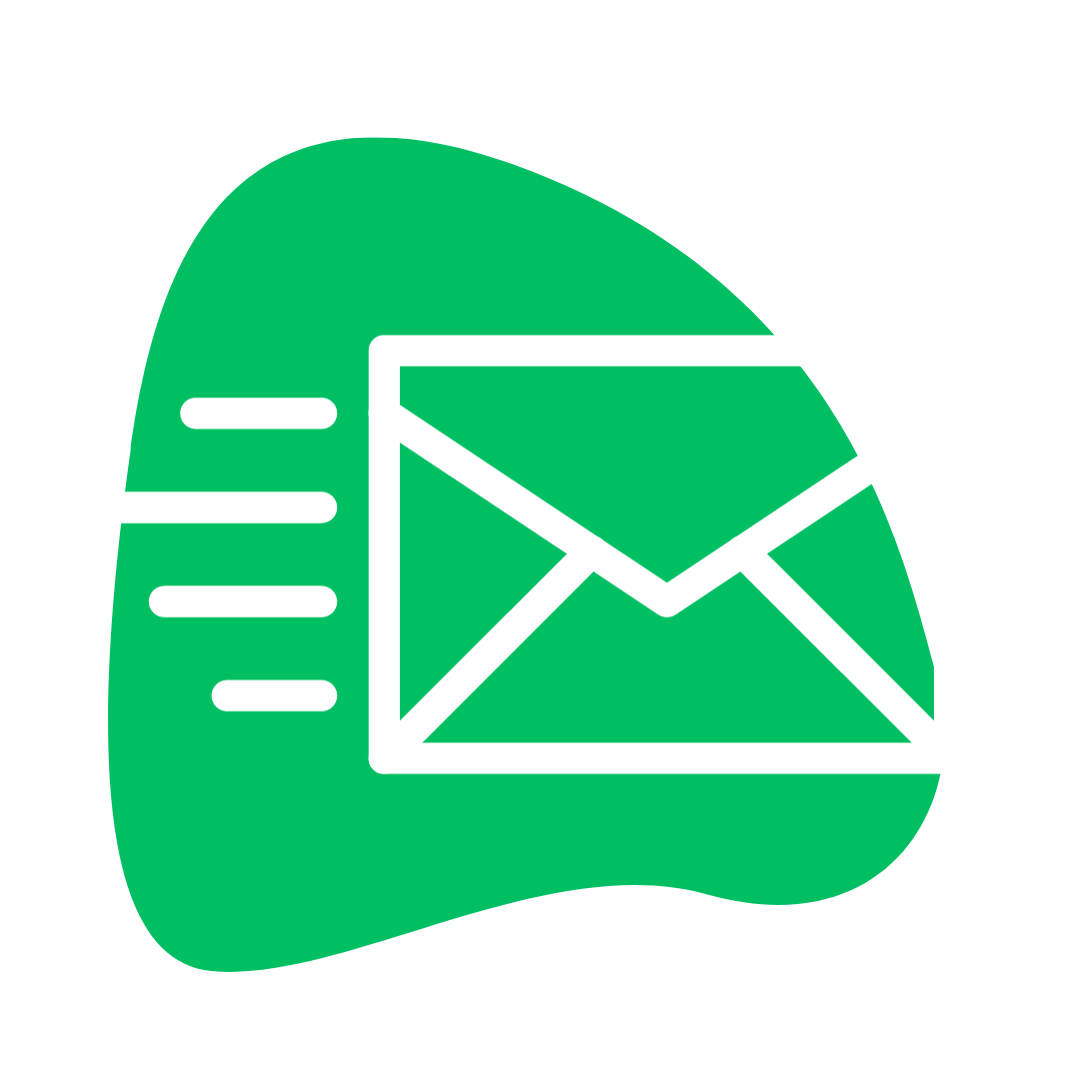
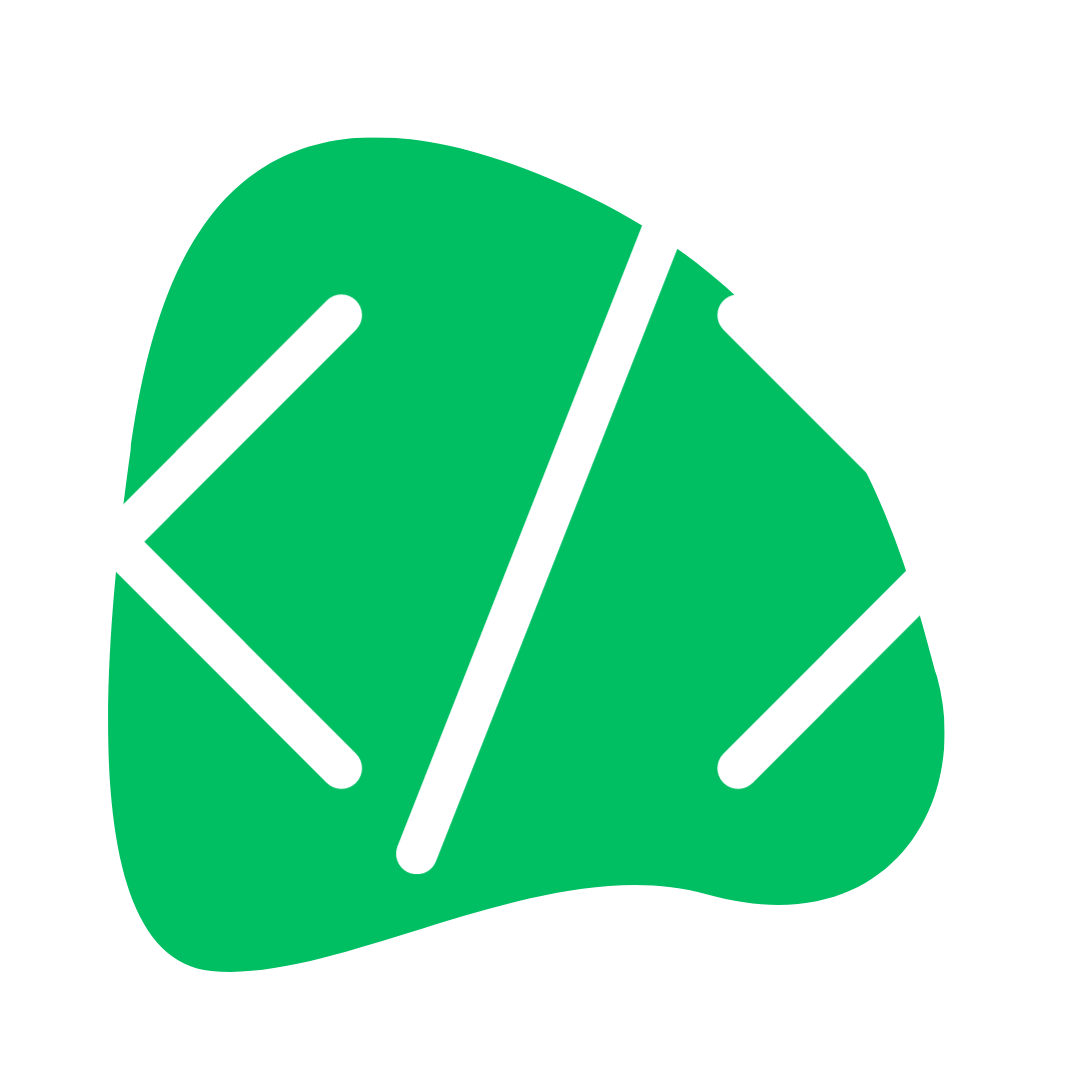
modified

Changed region(s): [[0.0917, 0.2139, 0.8861, 0.825]]

diff --git a/style.css b/style.css
@@ -18,10 +18,18 @@ header {
 ul {
   list-style: none;
   display: flex;
+  height: 100%;
 }
 li {
   margin: 0 15px;
+  display: flex;
+  align-items: center;
 }
+.menus{
+  display: flex;
+  align-items: center;
+}
+
 nav {
   max-width: var(--largura-m);
   margin: auto;
@@ -215,16 +223,16 @@ section {
   color: #fff;
   border: 1px solid #fff;
 }
-.card:hover > .card_header > #redes {
+.card:hover > .card_header > #sites {
   background-image: url("./arquivos/icons_branco/4.png");
 }
-.card:hover > .card_header > #sites {
+.card:hover > .card_header > #redes {
   background-image: url("./arquivos/icons_branco/5.png");
 }
 .card:hover > .card_header > #local {
   background-image: url("./arquivos/icons_branco/6.png");
 }
-.card:hover > .card_header > #email {
+.card:hover > .card_header > #criacao {
   background-image: url("./arquivos/icons_branco/7.png");
 }
 .card:hover > .card_header > #conteudo {
@@ -302,25 +310,27 @@ section > .chamada > h1 {
   color: #000077;
   border: 1px solid var(--azul);
 }
-#redes {
+#sites {
   background-image: url("./arquivos/icons/4.png");
 }
-#sites {
+#redes {
   background-image: url("./arquivos/icons/5.png");
 }
 #local {
   background-image: url("./arquivos/icons/6.png");
 }
-#email {
+#criacao {
   background-image: url("./arquivos/icons/7.png");
 }
 #conteudo {
   background-image: url("./arquivos/icons/8.png");
-  scale: 1.3;
+  /* scale: 1.3; */
 }
 #google {
   background-image: url("./arquivos/icons/9.png");
-  /* scale: 1.5; */
+  width: 80px;
+  height: 80px;
+  scale: 1.2;
   /* position: relative;
   top: 10px; */
 }

diff --git a/index.html b/index.html
@@ -81,10 +81,10 @@
                 </div>
                 <div class="card">
                     <div class="card_header">
-                        <div class="icons" id="email"></div>
-                        <h4>Email Marketing</h4>
+                        <div class="icons" id="criacao"></div>
+                        <h4>Criação de Site</h4>
                     </div>
-                    <p>O email marketing mantém seu público envolvido e informado. </p>
+                    <p>Amplie seu alcance de mercado, a sua credibilidade e facilite a interação com clientes, contribuindo para o crescimento do seu negócio.</p>
                     <a href="https://api.whatsapp.com/send/?phone=5563981120245&text=Gostaria+de+utilizar+o+Email+Marketing+de+forma+eficaz.&type=phone_number&app_absent=0" target="_blank"><button>Saiba mais</button></a>
                 </div>
                 <div class="card">
